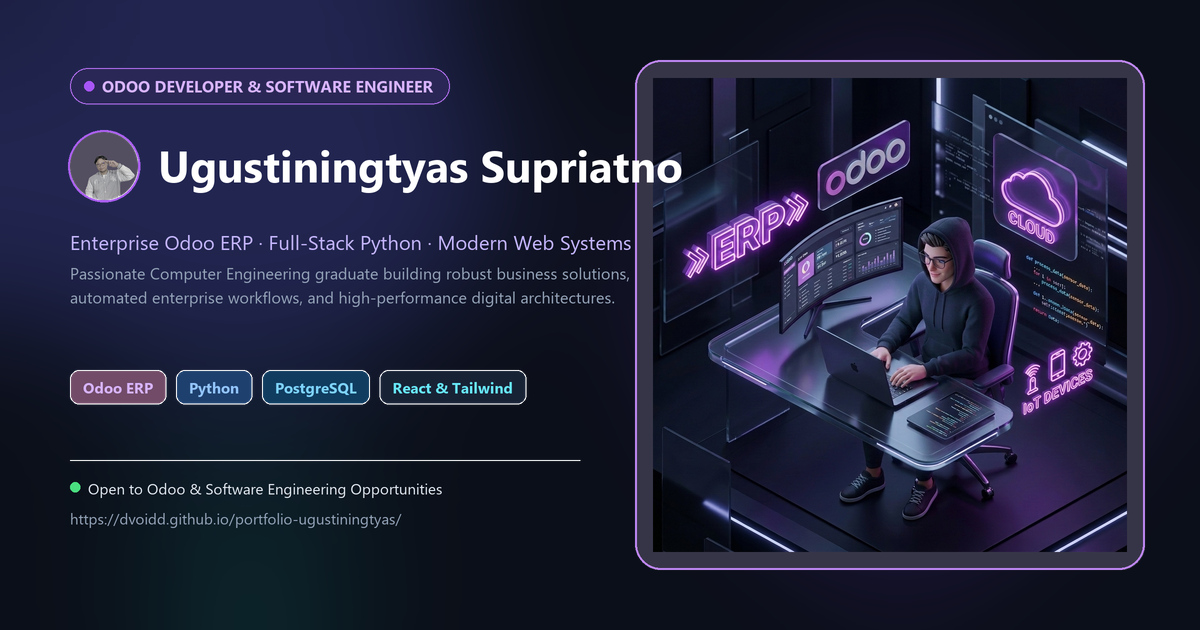
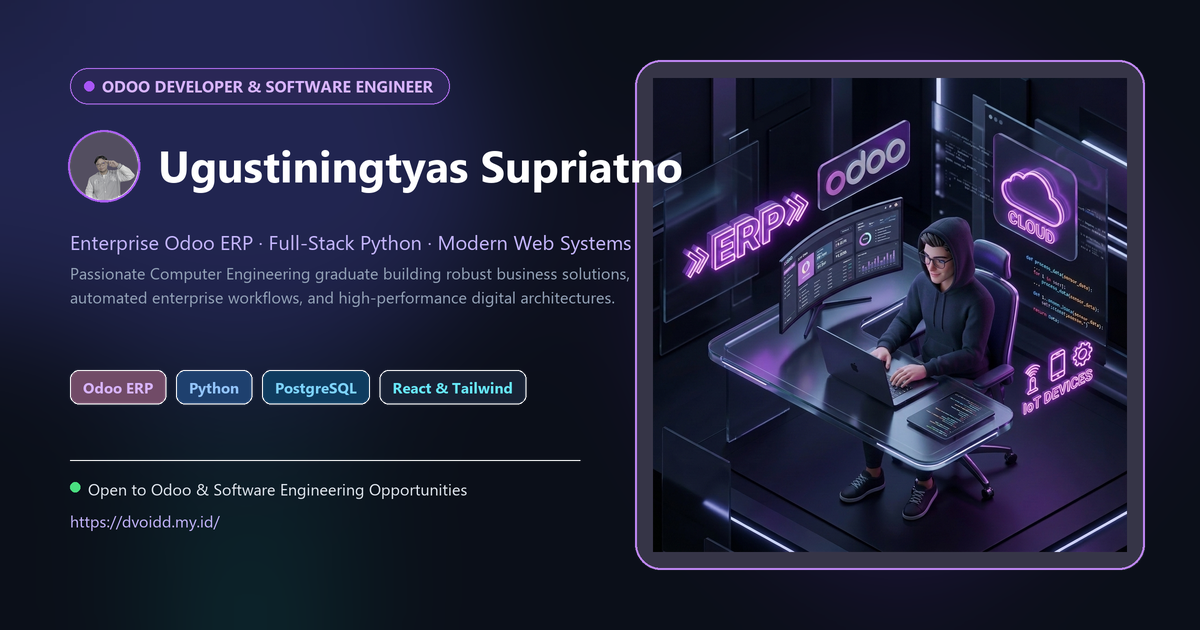
feat: configure custom domain dvoidd.my.id with CNAME, root base, and updated SEO

Changed region(s): [[0.0617, 0.754, 0.4008, 0.8444]]

diff --git a/index.html b/index.html
@@ -15,13 +15,13 @@
       content="Ugustiningtyas, Ugustiningtyas Supriatno, Odoo Developer, Software Engineer, Python Developer, ERP Developer, PT Gunung Samudera Internasional, Portfolio, Makassar"
     />
     <meta name="author" content="Ugustiningtyas Supriatno" />
-    <link rel="canonical" href="https://dvoidd.github.io/portfolio-ugustiningtyas/" />
-    <link rel="image_src" href="https://dvoidd.github.io/portfolio-ugustiningtyas/assets/img/og-cover.png" />
+    <link rel="canonical" href="https://dvoidd.my.id/" />
+    <link rel="image_src" href="https://dvoidd.my.id/assets/img/og-cover.png" />
 
     <!-- Open Graph / Facebook -->
     <meta property="og:type" content="website" />
     <meta property="og:site_name" content="Ugustiningtyas Supriatno Portfolio" />
-    <meta property="og:url" content="https://dvoidd.github.io/portfolio-ugustiningtyas/" />
+    <meta property="og:url" content="https://dvoidd.my.id/" />
     <meta
       property="og:title"
       content="Ugustiningtyas Supriatno — Odoo Developer & Software Engineer"
@@ -30,8 +30,8 @@
       property="og:description"
       content="Official portfolio of Ugustiningtyas Supriatno — Odoo Developer & Software Engineer specialized in enterprise ERP architecture, Python backend development, and scalable modern web solutions."
     />
-    <meta property="og:image" content="https://dvoidd.github.io/portfolio-ugustiningtyas/assets/img/og-cover.png" />
-    <meta property="og:image:secure_url" content="https://dvoidd.github.io/portfolio-ugustiningtyas/assets/img/og-cover.png" />
+    <meta property="og:image" content="https://dvoidd.my.id/assets/img/og-cover.png" />
+    <meta property="og:image:secure_url" content="https://dvoidd.my.id/assets/img/og-cover.png" />
     <meta property="og:image:type" content="image/png" />
     <meta property="og:image:width" content="1200" />
     <meta property="og:image:height" content="630" />
@@ -39,7 +39,7 @@
 
     <!-- Twitter -->
     <meta property="twitter:card" content="summary_large_image" />
-    <meta property="twitter:url" content="https://dvoidd.github.io/portfolio-ugustiningtyas/" />
+    <meta property="twitter:url" content="https://dvoidd.my.id/" />
     <meta
       property="twitter:title"
       content="Ugustiningtyas Supriatno — Odoo Developer & Software Engineer"
@@ -48,7 +48,7 @@
       property="twitter:description"
       content="Official portfolio of Ugustiningtyas Supriatno — Odoo Developer & Software Engineer specialized in enterprise ERP architecture, Python backend development, and scalable modern web solutions."
     />
-    <meta property="twitter:image" content="https://dvoidd.github.io/portfolio-ugustiningtyas/assets/img/og-cover.png" />
+    <meta property="twitter:image" content="https://dvoidd.my.id/assets/img/og-cover.png" />
     <meta property="twitter:image:alt" content="Ugustiningtyas Supriatno — Odoo Developer & Software Engineer" />
 
     <!-- Google Verification -->
@@ -64,37 +64,37 @@
         "@graph": [
           {
             "@type": "WebSite",
-            "@id": "https://dvoidd.github.io/portfolio-ugustiningtyas/#website",
-            "url": "https://dvoidd.github.io/portfolio-ugustiningtyas/",
+            "@id": "https://dvoidd.my.id/#website",
+            "url": "https://dvoidd.my.id/",
             "name": "Ugustiningtyas Supriatno Portfolio",
             "description": "Portfolio of Ugustiningtyas Supriatno — Odoo Developer & Software Engineer",
             "publisher": {
-              "@id": "https://dvoidd.github.io/portfolio-ugustiningtyas/#person"
+              "@id": "https://dvoidd.my.id/#person"
             }
           },
           {
             "@type": "WebPage",
-            "@id": "https://dvoidd.github.io/portfolio-ugustiningtyas/#webpage",
-            "url": "https://dvoidd.github.io/portfolio-ugustiningtyas/",
+            "@id": "https://dvoidd.my.id/#webpage",
+            "url": "https://dvoidd.my.id/",
             "name": "Ugustiningtyas Supriatno — Odoo Developer & Software Engineer",
             "isPartOf": {
-              "@id": "https://dvoidd.github.io/portfolio-ugustiningtyas/#website"
+              "@id": "https://dvoidd.my.id/#website"
             },
             "primaryImageOfPage": {
               "@type": "ImageObject",
-              "url": "https://dvoidd.github.io/portfolio-ugustiningtyas/assets/img/og-cover.png",
+              "url": "https://dvoidd.my.id/assets/img/og-cover.png",
               "width": 1200,
               "height": 630
             },
-            "thumbnailUrl": "https://dvoidd.github.io/portfolio-ugustiningtyas/assets/img/og-cover.png"
+            "thumbnailUrl": "https://dvoidd.my.id/assets/img/og-cover.png"
           },
           {
             "@type": "Person",
-            "@id": "https://dvoidd.github.io/portfolio-ugustiningtyas/#person",
+            "@id": "https://dvoidd.my.id/#person",
             "name": "Ugustiningtyas Supriatno",
-            "url": "https://dvoidd.github.io/portfolio-ugustiningtyas/",
+            "url": "https://dvoidd.my.id/",
             "jobTitle": "Odoo Developer & Software Engineer",
-            "image": "https://dvoidd.github.io/portfolio-ugustiningtyas/assets/img/og-cover.png",
+            "image": "https://dvoidd.my.id/assets/img/og-cover.png",
             "sameAs": [
               "https://github.com/dvoidd",
               "https://www.linkedin.com/in/ugustiningtyas-supriatno/",

diff --git a/vite.config.js b/vite.config.js
@@ -4,5 +4,5 @@ import react from '@vitejs/plugin-react'
 // https://vite.dev/config/
 export default defineConfig({
   plugins: [react()],
-  base: '/portfolio-ugustiningtyas/',
+  base: '/',
 })
